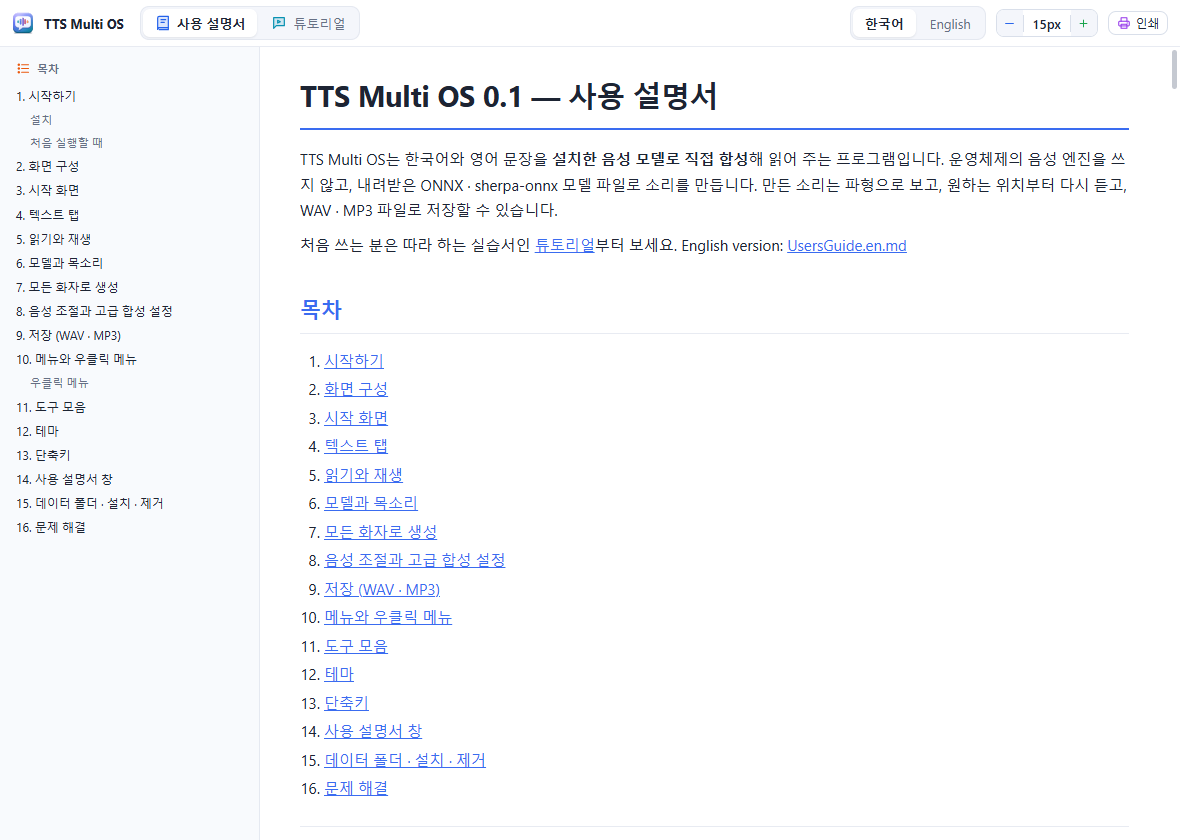
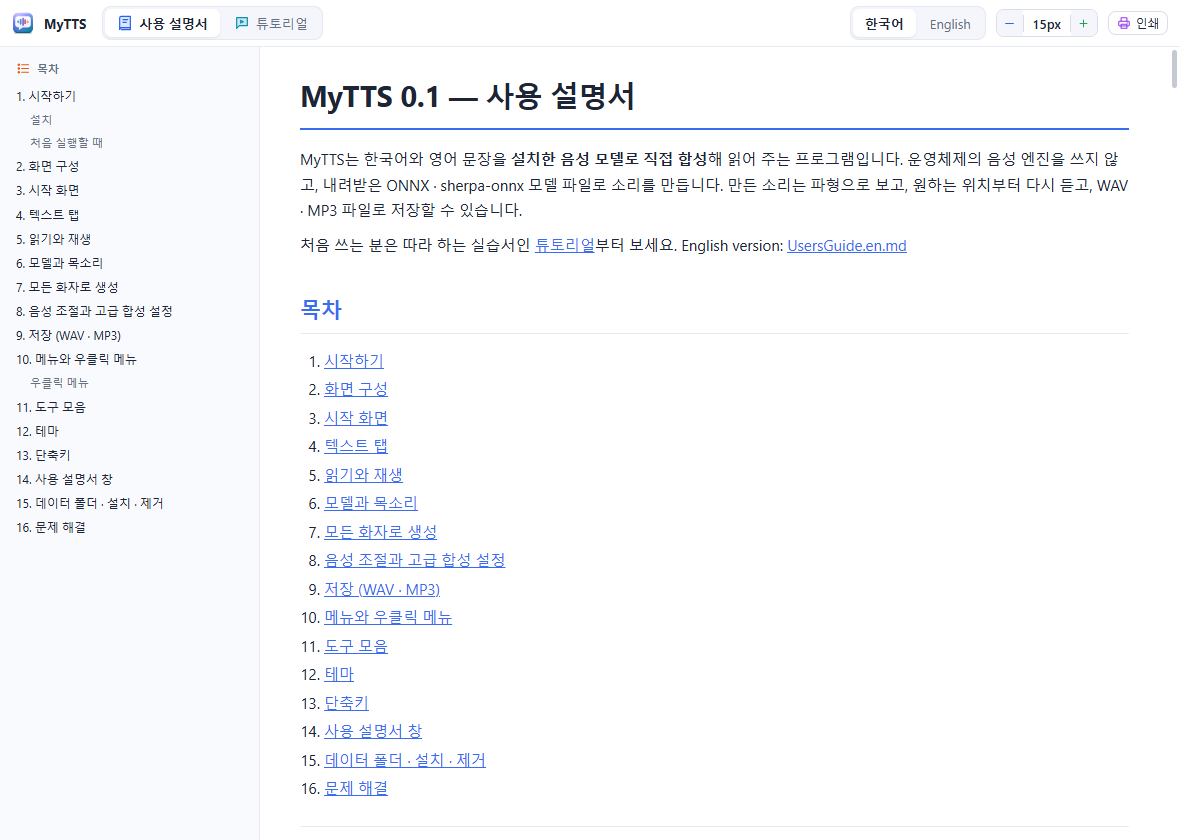
Add changes.

Changed region(s): [[0.2441, 0.0929, 0.9458, 0.2786], [0.0305, 0.0, 0.3051, 0.0619]]

diff --git a/MyTTSMultiOSV10/src/web/ui/samples.js b/MyTTSMultiOSV10/src/web/ui/samples.js
@@ -8,7 +8,7 @@ export const SAMPLE_GROUPS = [
 export const SAMPLES = [
   {
     id: 'korean_greeting', group: 'ko', icon: 'ttsSpeak', title: '인사말', tip: '짧은 인사와 프로그램 소개',
-    text: '안녕하세요. 반갑습니다.\n저는 TTS Multi OS 데모 프로그램입니다.\n한국어와 영어를 모두 지원합니다.\n텍스트를 입력하고 읽기 버튼을 누르면 음성으로 변환됩니다.\n좋은 하루 보내세요!',
+    text: '안녕하세요. 반갑습니다.\n저는 MyTTS 데모 프로그램입니다.\n한국어와 영어를 모두 지원합니다.\n텍스트를 입력하고 읽기 버튼을 누르면 음성으로 변환됩니다.\n좋은 하루 보내세요!',
   },
   {
     id: 'korean_news', group: 'ko', icon: 'notes', title: '뉴스', tip: '날씨·경제·기술 소식 다섯 문장',
@@ -28,7 +28,7 @@ export const SAMPLES = [
   },
   {
     id: 'english_greeting', group: 'en', icon: 'ttsSpeak', title: 'Greeting', tip: 'A short welcome to the app',
-    text: 'Hello! Welcome to TTS Multi OS.\nThis application converts text to speech using advanced AI models.\nYou can type any text in the input area and click the Read button.\nThe system supports both Korean and English languages.\nWe hope you enjoy using this application. Have a great day!',
+    text: 'Hello! Welcome to MyTTS.\nThis application converts text to speech using advanced AI models.\nYou can type any text in the input area and click the Read button.\nThe system supports both Korean and English languages.\nWe hope you enjoy using this application. Have a great day!',
   },
   {
     id: 'english_story', group: 'en', icon: 'star', title: 'Story', tip: 'Clara, the Voice Maker',

diff --git a/MyTTSMultiOSV10/src/web/ui/icons.js b/MyTTSMultiOSV10/src/web/ui/icons.js
@@ -1,7 +1,7 @@
 // Inline stroke icons (24×24 grid, currentColor), each in a colour of its own: icon-tones.js
 // names the hue, styles.css gives each hue a shade for light and for dark themes. Every
 // command has its own picture (test/unit/icons.test.js checks that no two commands share one).
-// TTS Multi OS: ported from MyUMLMaker (src/icons.js) without the UML element icons.
+// MyTTS: ported from MyUMLMaker (src/icons.js) without the UML element icons.
 const UML_ICONS = {};
 import { toneOf } from './icon-tones.js';
 
@@ -332,7 +332,7 @@ const base = {
   bpmnSimulate: '<circle cx="4" cy="12" r="2.5"/><rect x="9" y="8" width="7" height="8" rx="2"/><circle cx="21" cy="12" r="1.8" stroke-width="2.6"/><path d="M6.5 12H9M16 12h3"/><circle cx="7.8" cy="12" r="1.4" fill="currentColor"/>',
   mmOutline: '<path d="M4 5h.01M4 12h.01M4 19h.01"/><path d="M8 5h12M11 12h9M14 19h6"/><path d="M8 12h1M8 19h4"/>',
   mmRelayout: '<rect x="9" y="10" width="6" height="4" rx="1.5"/><path d="M9 12H5M15 12h4M5 7v10M19 7v10"/><path d="M20 3a9 9 0 0 0-9-1.5M4 21a9 9 0 0 0 9 1.5"/><path d="M17 2.5l3 .5-.5 3"/>',
-  // ── TTS Multi OS
+  // ── MyTTS
   ttsVolume: '<path d="M4 9.5h4l5-4.5v14l-5-4.5H4z"/><path d="M16.5 9a4 4 0 0 1 0 6M19 6.5a7.5 7.5 0 0 1 0 11"/>',
   ttsWaveform: '<path d="M3 12h2M6 8v8M9 5v14M12 9v6M15 6v12M18 9.5v5M21 12h-1"/>',
   ttsVoice: '<rect x="9" y="3" width="6" height="11" rx="3"/><path d="M5.5 11a6.5 6.5 0 0 0 13 0M12 17.5V21M9 21h6"/>',

diff --git a/MyTTSMultiOSV10/index.html b/MyTTSMultiOSV10/index.html
@@ -3,7 +3,7 @@
   <head>
     <meta charset="UTF-8" />
     <meta name="viewport" content="width=device-width, initial-scale=1.0" />
-    <title>TTS Multi OS</title>
+    <title>MyTTS</title>
     <link rel="stylesheet" href="./src/web/styles.css" />
   </head>
   <body>
@@ -225,9 +225,9 @@
         </header>
         <div class="popup-body about">
           <div class="about-top">
-            <img src="./assets/icon.svg" class="about-icon small" alt="TTS Multi OS" />
+            <img src="./assets/icon.svg" class="about-icon small" alt="MyTTS" />
             <div class="about-text">
-              <div class="about-name">TTS Multi OS <span class="about-version">v0.1.0</span></div>
+              <div class="about-name">MyTTS <span class="about-version">v0.1.0</span></div>
               <div class="about-tagline">Embedded-ready TTS System</div>
               <p class="about-description">설치한 ONNX·sherpa-onnx 모델로 한국어와 영어 문장을 직접 합성하고, 같은 PCM으로 파형을 그리며 WAV·MP3로 저장합니다.</p>
             </div>

diff --git a/MyTTSMultiOSV10/guide.html b/MyTTSMultiOSV10/guide.html
@@ -3,7 +3,7 @@
   <head>
     <meta charset="UTF-8" />
     <meta name="viewport" content="width=device-width, initial-scale=1.0" />
-    <title>TTS Multi OS — 사용 설명서</title>
+    <title>MyTTS — 사용 설명서</title>
     <link rel="stylesheet" href="./src/web/styles.css" />
     <link rel="stylesheet" href="./src/web/guide.css" />
   </head>
@@ -11,7 +11,7 @@
     <!-- 사용 설명서 · 튜토리얼 보기 (src/web/guide.js): doc/*.md 를 그려 보여 준다 -->
     <header class="guide-bar">
       <img class="guide-logo" src="./assets/icon.svg" alt="" />
-      <strong class="guide-app">TTS Multi OS</strong>
+      <strong class="guide-app">MyTTS</strong>
       <nav class="guide-docs" role="tablist" aria-label="문서">
         <button type="button" role="tab" data-doc="guide"><i data-i="ttsGuide"></i><span data-label="guide">사용 설명서</span></button>
         <button type="button" role="tab" data-doc="tutorial"><i data-i="ttsTutorial"></i><span data-label="tutorial">튜토리얼</span></button>

diff --git a/MyTTSMultiOSV10/src/web/ui/background.js b/MyTTSMultiOSV10/src/web/ui/background.js
@@ -4,7 +4,7 @@
 // snow, fireflies, ripples, code rain, hexagons, orbits, a lava lamp, a spiral
 // galaxy, confetti, a node network and ribbons. Colours follow the theme. The animation
 // pauses while the window is hidden; `frames` counts drawn frames (tests use it).
-// TTS Multi OS: ported from MyUMLMaker (src/ui/background.js); the list lives here.
+// MyTTS: ported from MyUMLMaker (src/ui/background.js); the list lives here.
 export const ANIMATIONS = [
   'aurora', 'waves', 'particles', 'constellation', 'bubbles', 'gridflow', 'flowchart', 'starfield', 'rain', 'snow',
   'fireflies', 'ripples', 'coderain', 'hexagons', 'orbits', 'lava', 'spiral', 'confetti', 'nodes', 'ribbons',

diff --git a/MyTTSMultiOSV10/src/web/guide.js b/MyTTSMultiOSV10/src/web/guide.js
@@ -43,7 +43,7 @@ async function show() {
   const file = FILES[view.doc][view.lang];
   const L = LABELS[view.lang];
   document.documentElement.lang = view.lang;
-  document.title = `TTS Multi OS — ${L[view.doc]}`;
+  document.title = `MyTTS — ${L[view.doc]}`;
   for (const el of document.querySelectorAll('[data-label]')) el.textContent = L[el.dataset.label];
   for (const b of document.querySelectorAll('[data-doc]')) { b.classList.toggle('active', b.dataset.doc === view.doc); b.setAttribute('aria-selected', String(b.dataset.doc === view.doc)); }
   for (const b of document.querySelectorAll('[data-lang]')) b.classList.toggle('active', b.dataset.lang === view.lang);

diff --git a/MyTTSMultiOSV10/src/web/styles.css b/MyTTSMultiOSV10/src/web/styles.css
@@ -1,4 +1,4 @@
-/* TTS Multi OS — the MyUMLMaker look: every colour comes from the theme variables (ui/themes.js).
+/* MyTTS — the MyUMLMaker look: every colour comes from the theme variables (ui/themes.js).
    Sections marked "MyUMLMaker" are taken from MyUMLMakerMultiOSV10/src/styles.css; the TTS
    editor, voice panel and waveform follow them at the end. */
 :root {

diff --git a/MyTTSMultiOSV10/src/web/ui/shell.js b/MyTTSMultiOSV10/src/web/ui/shell.js
@@ -15,7 +15,7 @@ import { SAMPLE_GROUPS, SAMPLES } from './samples.js';
 import * as docTabs from './doctabs.js';
 import { showContextMenu } from './contextmenu.js';
 
-export const APP_NAME = 'TTS Multi OS';
+export const APP_NAME = 'MyTTS';
 export const VERSION = '0.1.0';
 const APP_ICON = './assets/icon.svg';
 

diff --git a/MyTTSMultiOSV10/src-tauri/src/lib.rs b/MyTTSMultiOSV10/src-tauri/src/lib.rs
@@ -1,4 +1,4 @@
-// TTS Multi OS — the Tauri program. It owns the window (frameless: the page's menu bar row
+// MyTTS — the Tauri program. It owns the window (frameless: the page's menu bar row
 // is the title bar), the file dialogs, the clipboard and native message boxes; everything
 // else goes to the Node host (src/host/host.mjs), which runs the TTS engine unchanged from
 // the Electron build (onnxruntime-node, sherpa-onnx-node). The page talks to both through one
@@ -85,7 +85,7 @@ fn host_launch(app: &AppHandle) -> Result<host::Launch, String> {
         .map(PathBuf::from)
         .or(bundled_node)
         .or_else(node_on_path)
-        .ok_or("Node.js 를 찾지 못했습니다. Node.js 를 설치하거나, 설치 프로그램으로 설치한 TTS Multi OS 를 실행하세요 (Node 가 함께 들어 있습니다).")?;
+        .ok_or("Node.js 를 찾지 못했습니다. Node.js 를 설치하거나, 설치 프로그램으로 설치한 MyTTS 를 실행하세요 (Node 가 함께 들어 있습니다).")?;
     let mut env = vec![
         ("TTS_VERSION".to_string(), app.package_info().version.to_string()),
         ("TTS_TAURI".to_string(), tauri::VERSION.to_string()),
@@ -324,7 +324,7 @@ async fn tts(app: AppHandle, window: WebviewWindow, ch: String, a: Value) -> Res
                 return Ok(Value::Null);
             }
             let mut b = WebviewWindowBuilder::new(&app, GUIDE, WebviewUrl::App(format!("guide.html?doc={doc}&lang={lang}").into()))
-                .title(if lang == "en" { "TTS Multi OS — User's Guide" } else { "TTS Multi OS — 사용 설명서" })
+                .title(if lang == "en" { "MyTTS — User's Guide" } else { "MyTTS — 사용 설명서" })
                 .inner_size(1180.0, 840.0)
                 .min_inner_size(720.0, 480.0)
                 .center();
@@ -395,7 +395,7 @@ fn reveal(window: &WebviewWindow) {
 
 fn create_main_window(app: &AppHandle) -> Result<WebviewWindow, String> {
     let mut b = WebviewWindowBuilder::new(app, MAIN, WebviewUrl::App("index.html".into()))
-        .title("TTS Multi OS")
+        .title("MyTTS")
         // MyUMLMaker look: no system title bar; the menu bar row is the title bar.
         .decorations(false)
         .inner_size(1520.0, 910.0)
@@ -441,7 +441,7 @@ fn create_main_window(app: &AppHandle) -> Result<WebviewWindow, String> {
 }
 
 fn fatal(app: &AppHandle, message: String) {
-    app.dialog().message(message).title("TTS Multi OS").kind(MessageDialogKind::Error).blocking_show();
+    app.dialog().message(message).title("MyTTS").kind(MessageDialogKind::Error).blocking_show();
     app.exit(1);
 }
 
@@ -473,7 +473,7 @@ pub fn run() {
             Ok(())
         })
         .build(tauri::generate_context!())
-        .expect("error while building TTS Multi OS")
+        .expect("error while building MyTTS")
         .run(|app, event| {
             if let tauri::RunEvent::Exit = event {
                 state(app).quitting.store(true, Ordering::SeqCst);

diff --git a/MyTTSMultiOSV10/doc/UsersGuide.md b/MyTTSMultiOSV10/doc/UsersGuide.md
@@ -1,6 +1,6 @@
-# TTS Multi OS 0.1 — 사용 설명서
+# MyTTS 0.1 — 사용 설명서
 
-TTS Multi OS는 한국어와 영어 문장을 **설치한 음성 모델로 직접 합성**해 읽어 주는 프로그램입니다.
+MyTTS는 한국어와 영어 문장을 **설치한 음성 모델로 직접 합성**해 읽어 주는 프로그램입니다.
 운영체제의 음성 엔진을 쓰지 않고, 내려받은 ONNX · sherpa-onnx 모델 파일로 소리를 만듭니다.
 만든 소리는 파형으로 보고, 원하는 위치부터 다시 듣고, WAV · MP3 파일로 저장할 수 있습니다.
 
@@ -32,11 +32,11 @@ English version: [UsersGuide.en.md](UsersGuide.en.md)
 
 ### 설치
 
-Windows에서는 `TTS Multi OS_0.1.0_x64-setup.exe`를 실행합니다.
+Windows에서는 `MyTTS_0.1.0_x64-setup.exe`를 실행합니다.
 
 - 사용자별 설치라 관리자 권한을 묻지 않습니다.
 - 설치 프로그램에 음성 엔진이 쓰는 Node.js가 함께 들어 있어 따로 설치할 것이 없습니다.
-- 이미 설치된 TTS Multi OS(이전 Electron 판 포함)가 있으면 먼저 완전히 지운 뒤 설치합니다.
+- 이미 설치된 MyTTS(이전 이름 TTS Multi OS, Electron 판 포함)가 있으면 먼저 완전히 지운 뒤 설치합니다.
   이때 다운로드한 음성 모델 · 설정 · 로그를 지울지 묻습니다. 기본은 **유지**입니다.
 
 소스에서 실행하려면 Rust 툴체인과 Node.js가 필요합니다: `npm install` 후 `npm start`.

diff --git a/MyTTSMultiOSV10/doc/UsersGuide.en.md b/MyTTSMultiOSV10/doc/UsersGuide.en.md
@@ -1,6 +1,6 @@
-# TTS Multi OS 0.1 — User's Guide
+# MyTTS 0.1 — User's Guide
 
-TTS Multi OS reads Korean and English text aloud by **synthesizing it with voice models you install**.
+MyTTS reads Korean and English text aloud by **synthesizing it with voice models you install**.
 It does not use the operating system's speech engine: the sound comes from downloaded ONNX and sherpa-onnx models.
 You can see the result as a waveform, play it from any point, and save it as WAV or MP3.
 
@@ -35,11 +35,11 @@ New users should start with the hands-on [Tutorial](Tutorial.en.md).
 
 ### Installing
 
-On Windows, run `TTS Multi OS_0.1.0_x64-setup.exe`.
+On Windows, run `MyTTS_0.1.0_x64-setup.exe`.
 
 - It installs for the current user and does not ask for administrator rights.
 - The installer brings the Node.js runtime the voice engine needs; nothing else has to be installed.
-- An installed TTS Multi OS (including the earlier Electron build) is removed completely first.
+- An installed MyTTS (including TTS Multi OS, its earlier name, and the Electron build) is removed completely first.
   The installer then asks whether to delete downloaded voice models, settings and logs. The default is **keep**.
 
 To run from source you need the Rust toolchain and Node.js: `npm install`, then `npm start`.
